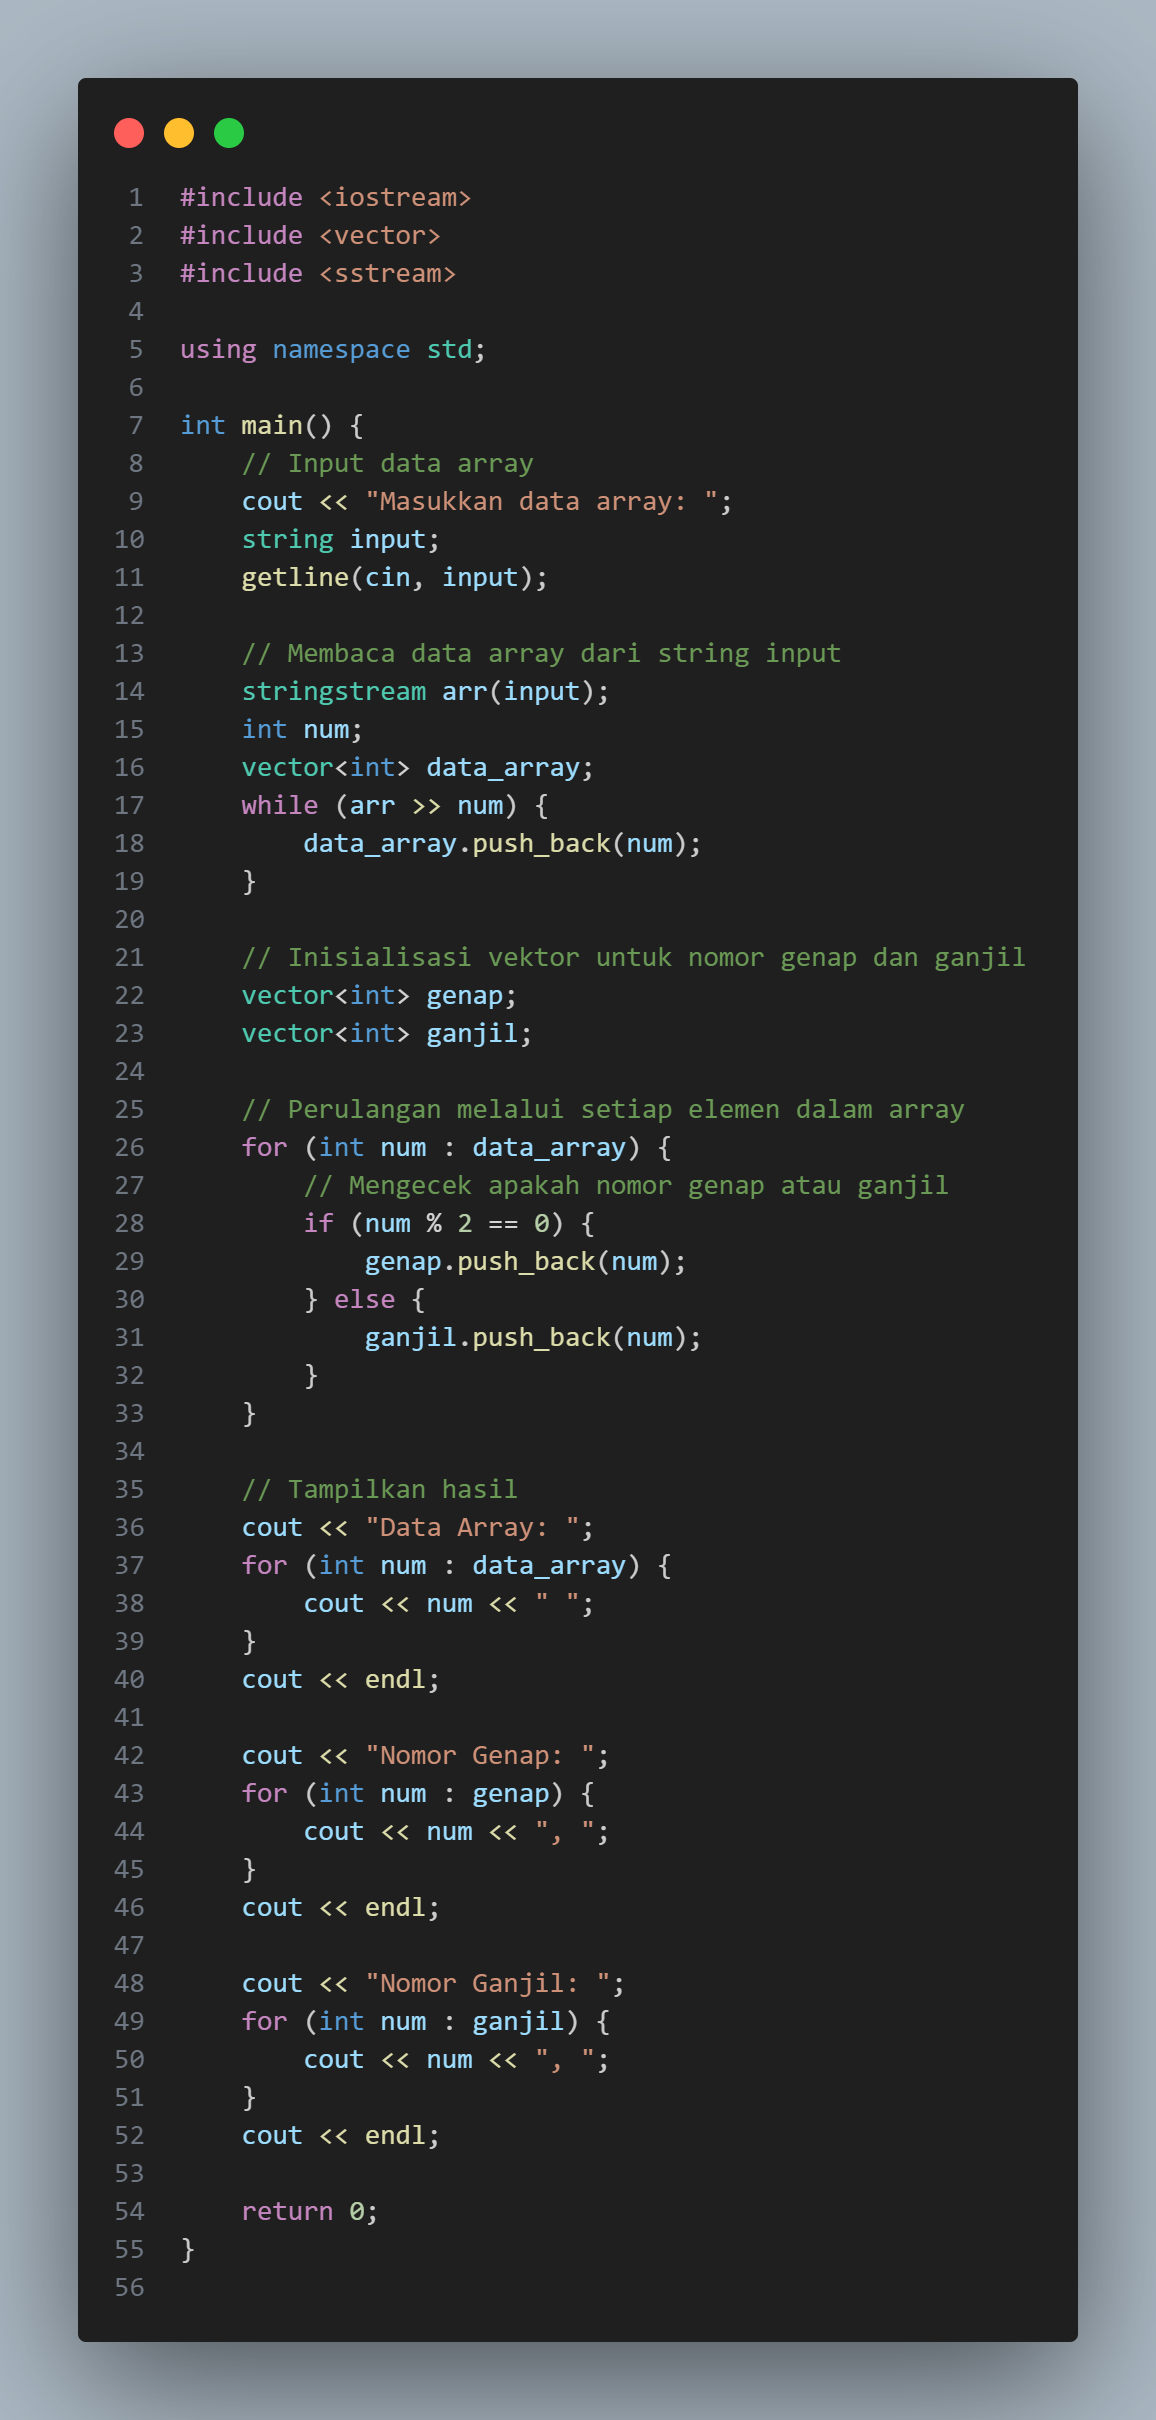
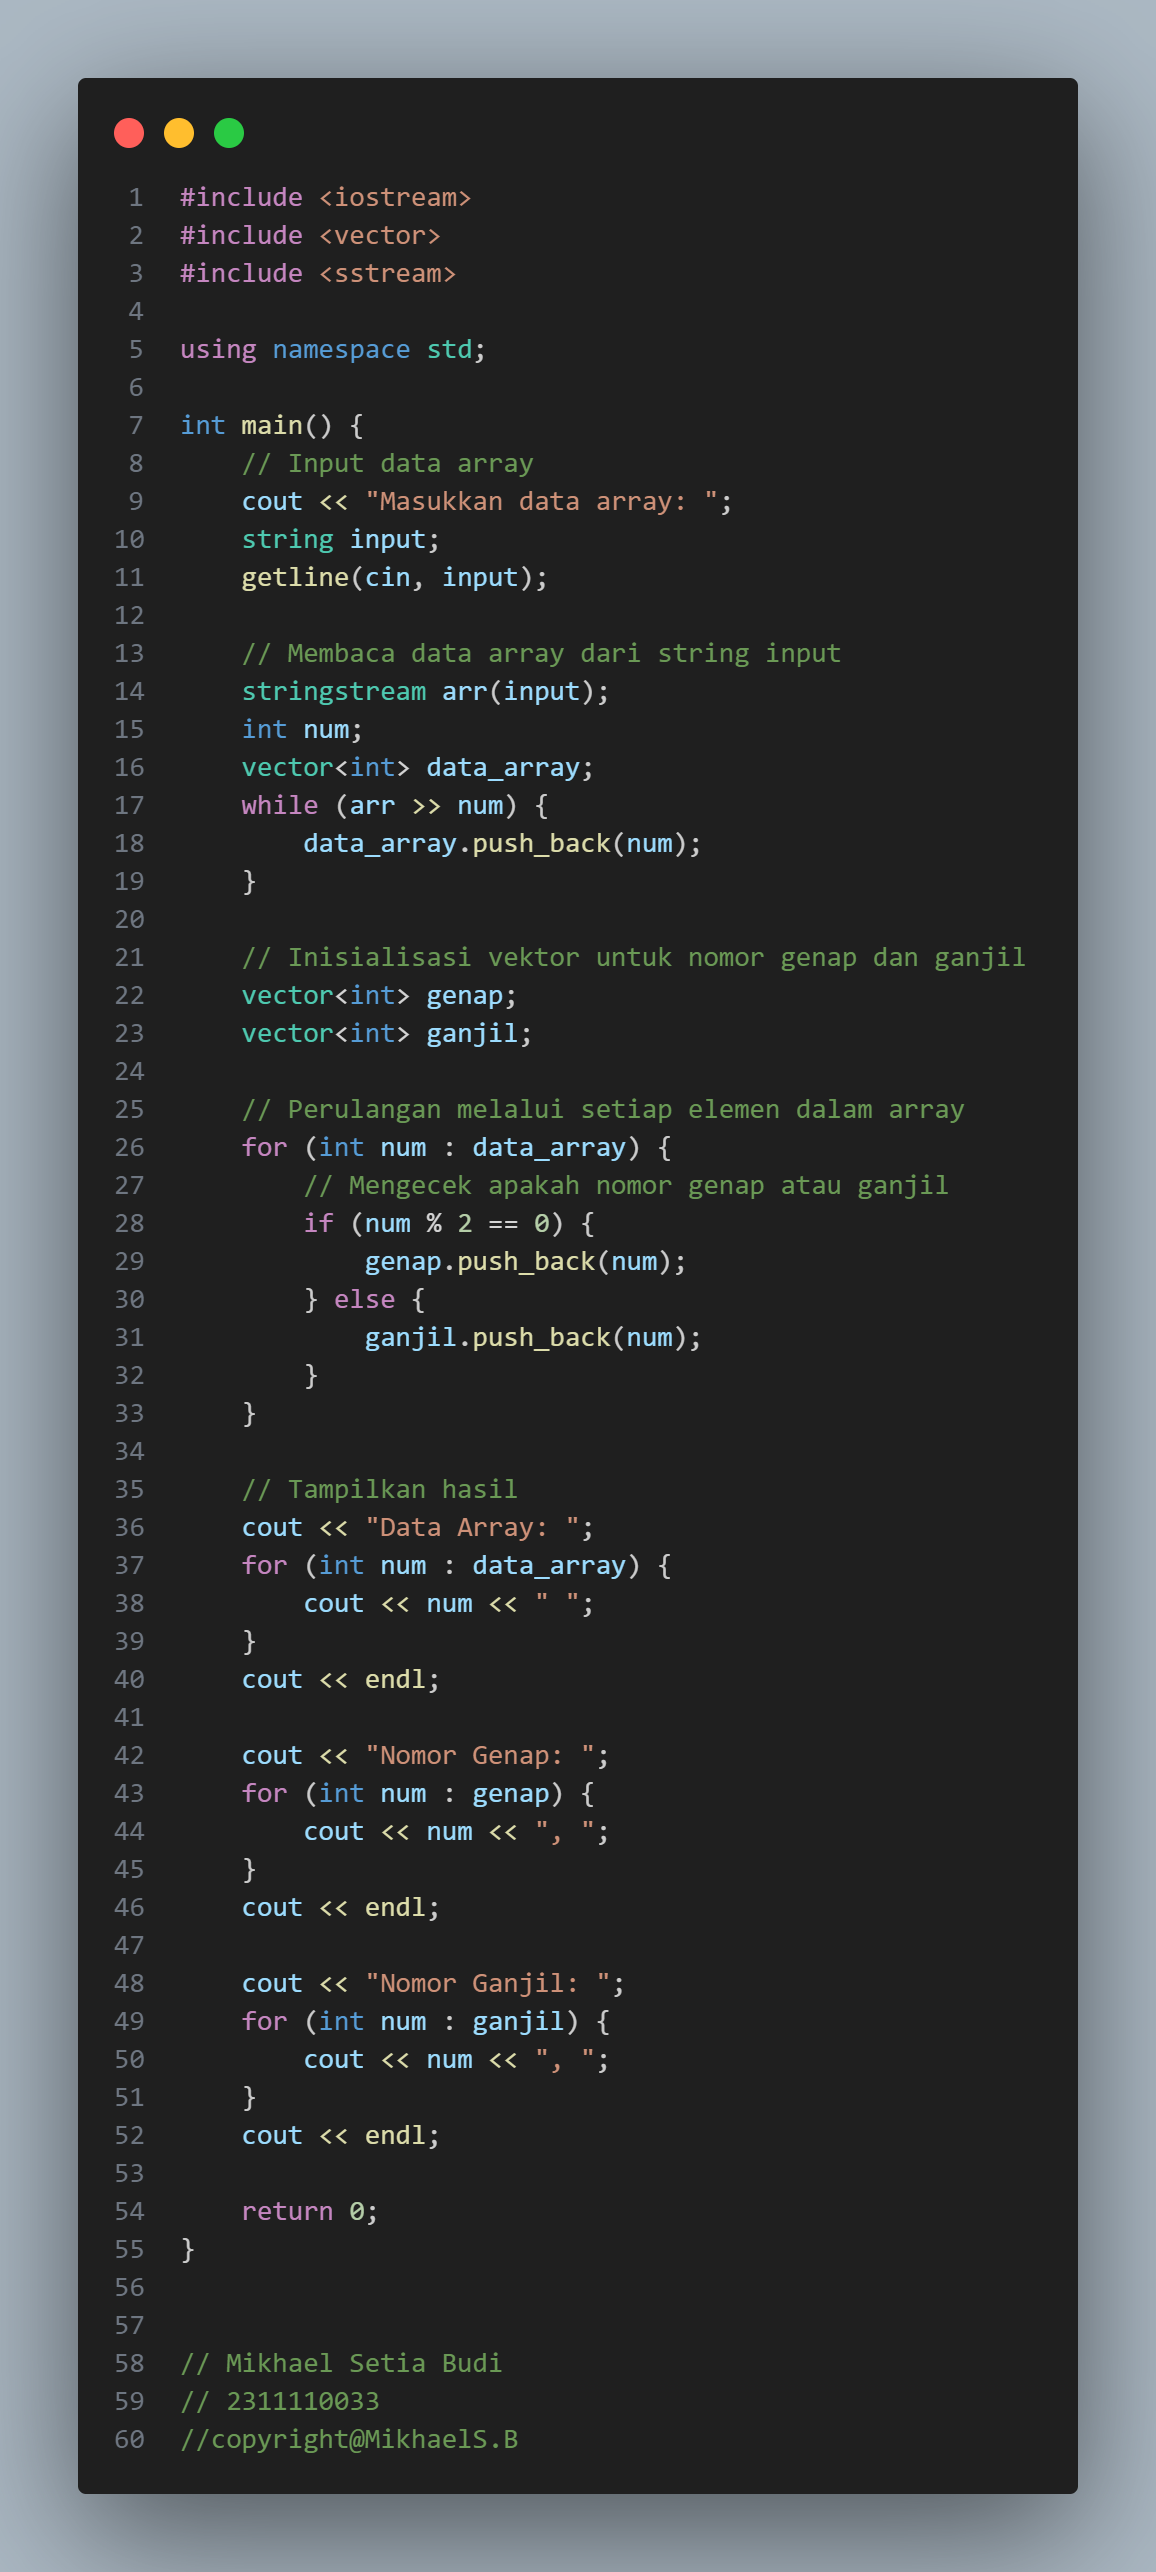
Modul 2

diff --git a/unguided2.cpp b/unguided2.cpp
@@ -56,3 +56,8 @@ int main() {
     }
     return 0;
 }
+
+
+// Mikhael Setia Budi
+// 2311110033
+//copyright@MikhaelS.B

diff --git a/Unguided1.cpp b/Unguided1.cpp
@@ -53,3 +53,8 @@ int main() {
 
     return 0;
 }
+
+
+// Mikhael Setia Budi
+// 2311110033
+//copyright@MikhaelS.B

diff --git a/Unguided3.cpp b/Unguided3.cpp
@@ -68,3 +68,8 @@ int main() {
 
     return 0;
 }
+
+
+// Mikhael Setia Budi
+// 2311110033
+//copyright@MikhaelS.B
